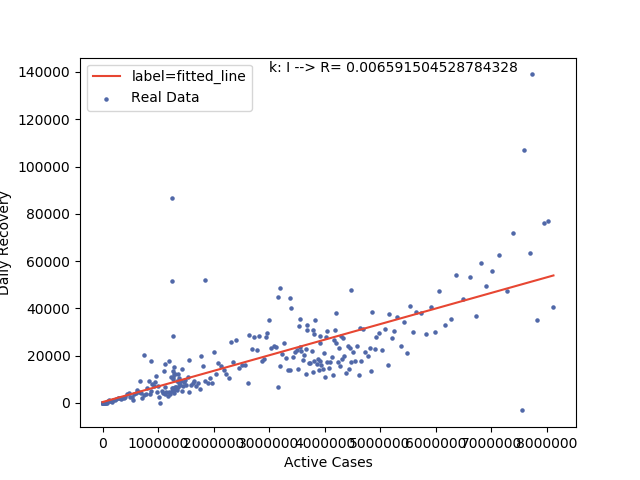
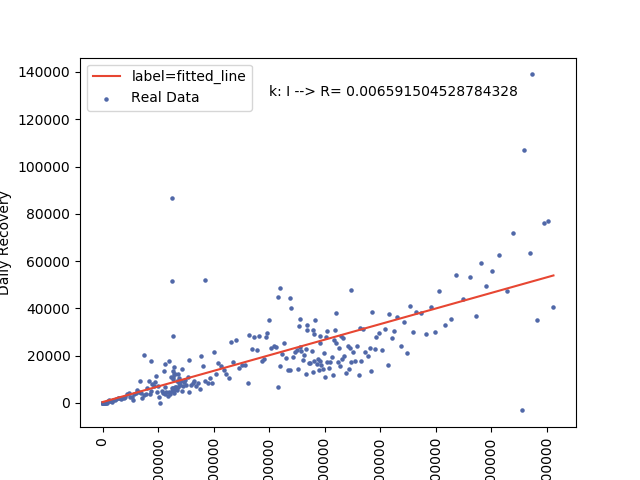
"Aesthetic Changes"

Changed region(s): [[0.1562, 0.9062, 0.9062, 1.0], [0.4062, 0.125, 0.8125, 0.2188], [0.4062, 0.1875, 0.4375, 0.2188]]

diff --git a/Analysis.py b/Analysis.py
@@ -1,6 +1,7 @@
 import pandas as pd
 from matplotlib import pyplot as plt
 import numpy as np
+from matplotlib import axes as axes
 Table=pd.read_csv("US_Data.csv")
 Positive_Cumulative=Table["positive"]
 Recovered_Cumulative=Table["recovered"]
@@ -22,12 +23,15 @@ for items in Recovered_Cumulative[1:]:
 m,b=np.polyfit(Active_Cases,Daily_Recovered,1)
 print(f'm={m} , b={b}')
 plt.scatter(Active_Cases,Daily_Recovered,s=5,label="Real Data",c="#5068A8")
-plt.text(3000000,140000,'k: I --> R= '+str(m))
-plt.plot(Active_Cases,[m*x+b for x in Active_Cases  ],label="label=fitted_line",color= "#E74632")
+plt.text(3000000,130000,'k: I --> R= '+str(m))
+ax=plt.plot(Active_Cases,[m*x+b for x in Active_Cases],label="label=fitted_line",color= "#E74632")
 plt.legend()
 
 plt.ylabel("Daily Recovery")
 plt.xlabel("Active Cases")
+plt.xticks(rotation="vertical")
 plt.savefig("Fitting_Result")
+plt.tight_layout()
+
 plt.show()
 
